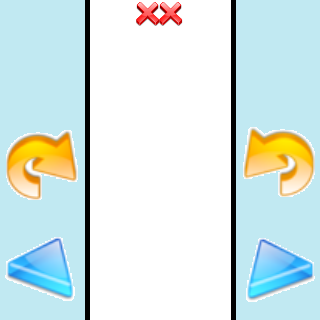
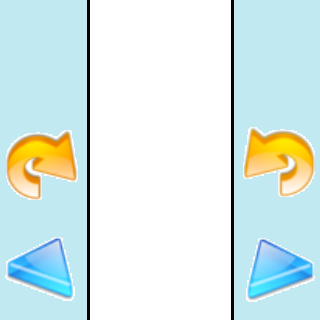
forl
Issues22終了

Changed region(s): [[0.7188, 0.0, 0.75, 1.0], [0.25, 0.0, 0.2812, 1.0], [0.4062, 0.0, 0.5625, 0.0938]]

diff --git a/puzzlegame.js b/puzzlegame.js
@@ -2,31 +2,45 @@
 window.onload = function(){
 	var game = new Game(320,320);
 	game.fps = 16;
-	game.preload('material.png','BG.png','fire.png','OUT.png','foolmaterial.png');
-	var num;
+	game.preload('material.png','BG.png','fire.png','OUT.png');
 	game.score = 0;
 	var material;
 	game.onload = function(){
 		//マップの生成
-		var map = new Map(24, 24);
-		map.x = 89;
-		map.y = 5;
-	  map.image = game.assets['material.png'];//5=空白
+		var map = new Map(23, 23);
+		map.x = 92;
+		map.y = 19;
+	  map.image = game.assets['material.png'];//6=空白
     map.loadData([
-    		[1,2,0,0,5,1],
-    		[1,2,3,4,5,0],
-    		[0,0,0,0,3,0],
-    		[0,0,0,0,0,0],
-    		[0,0,0,0,0,0],
-    		[0,0,0,0,0,0],
-    		[0,0,0,0,0,0],
-    		[0,0,0,0,0,0],
-    		[0,0,1,1,0,0],
-    		[0,0,0,0,0,0],
-    		[0,0,0,0,0,0],
-    		[0,0,0,0,0,0],
-    		[0,0,0,0,0,0],
-    		]);
+    	[5,5,5,5,5,5],
+    	[5,5,5,5,5,5],
+    	[5,5,5,5,5,5],
+    	[5,5,5,5,5,5],
+    	[5,5,5,5,5,5],
+    	[5,5,5,5,5,5],
+    	[5,5,5,5,5,5],
+    	[5,5,5,5,5,5],
+    	[1,2,3,4,0,1],
+    	[5,5,5,5,5,5],
+    	[5,5,5,5,5,5],
+    	[5,5,5,5,5,5],
+    	[5,5,4,5,5,5]
+    ]);
+    map.collisionData = [
+    	[0,0,0,0,0,0],
+    	[0,0,0,0,0,0],
+    	[0,0,0,0,0,0],
+    	[0,0,0,0,0,0],
+    	[0,0,0,0,0,0],
+    	[0,0,0,0,0,0],
+    	[0,0,0,0,0,0],
+    	[0,0,0,0,0,0],
+    	[1,2,3,4,0,1],
+    	[0,0,0,0,0,0],
+    	[0,0,0,0,0,0],
+    	[0,0,0,0,0,0],
+    	[0,0,1,0,0,0]
+    ];
     map._element.style.zIndex = 350;
     game.rootScene.addChild(map);
     
@@ -34,20 +48,44 @@ window.onload = function(){
     var label = new Label("");
     game.rootScene.addChild(label);
     //危険マーク
-    out = new Sprite(48,24);
+    out = new Sprite(46,23);
     out.image = game.assets['OUT.png'];
     out.x     = 136;
     game.rootScene.addChild(out);
     out._element.style.zIndex = 400;
-    //materialの生成
-    material = new Sprite(24,24);
-    material.image = game.assets['foolmaterial.png'];
-    material.x     = 160
-    material.y     = 90;
+
+		//
+		game.addmaterial = function(){
+			var material = new Sprite(23, 23);
+			material.image = game.assets['material.png'];
+			material.x = 160 ;
+			material.y = 30;
+			material.frame = Math.floor(Math.random() *5);
+			material.speed = 2;
+			material._element.style.zIndex = 900;
+			game.rootScene.addChild(material);
+			//定期処理
+			material.addEventListener(Event.ENTER_FRAME, function(){
+				material.y += material.speed;
+				
+				
+			});
+		};
+
+
+    /*materialの生成
+    material = new Sprite(23,23);
+    material.image = game.assets['material.png'];
+    material.x     = 160;
+    material.y     = 30;
     material.frame = num = Math.floor(Math.random() *5);
-    ;//※foolmaterialは0が赤material
-    material._element.style.zIndex = 900;
-    game.rootScene.addChild(material);
+        
+    //※foolmaterialは0が赤material
+		//material._element.style.zIndex = 900;
+    //game.rootScene.addChild(material);*/
+		
+    
+    
     //背景画像の生成
     var BG = new Sprite(320,320);
     BG.image = game.assets['BG.png'];
@@ -56,10 +94,13 @@ window.onload = function(){
     BG.frame = 0;
     game.rootScene.addChild(BG);
     BG._element.style.zIndex = 0;
-    
-    //ゲーム開始
-    
-    
-  };
-game.start();
+	};
+	var material_flag = true;
+  game.rootScene.addEventListener(Event.ENTER_FRAME, function(){
+  	if(material_flag == true){
+  		game.addmaterial();
+  		material_flag = false;
+  	}
+  });
+	game.start();
 };
